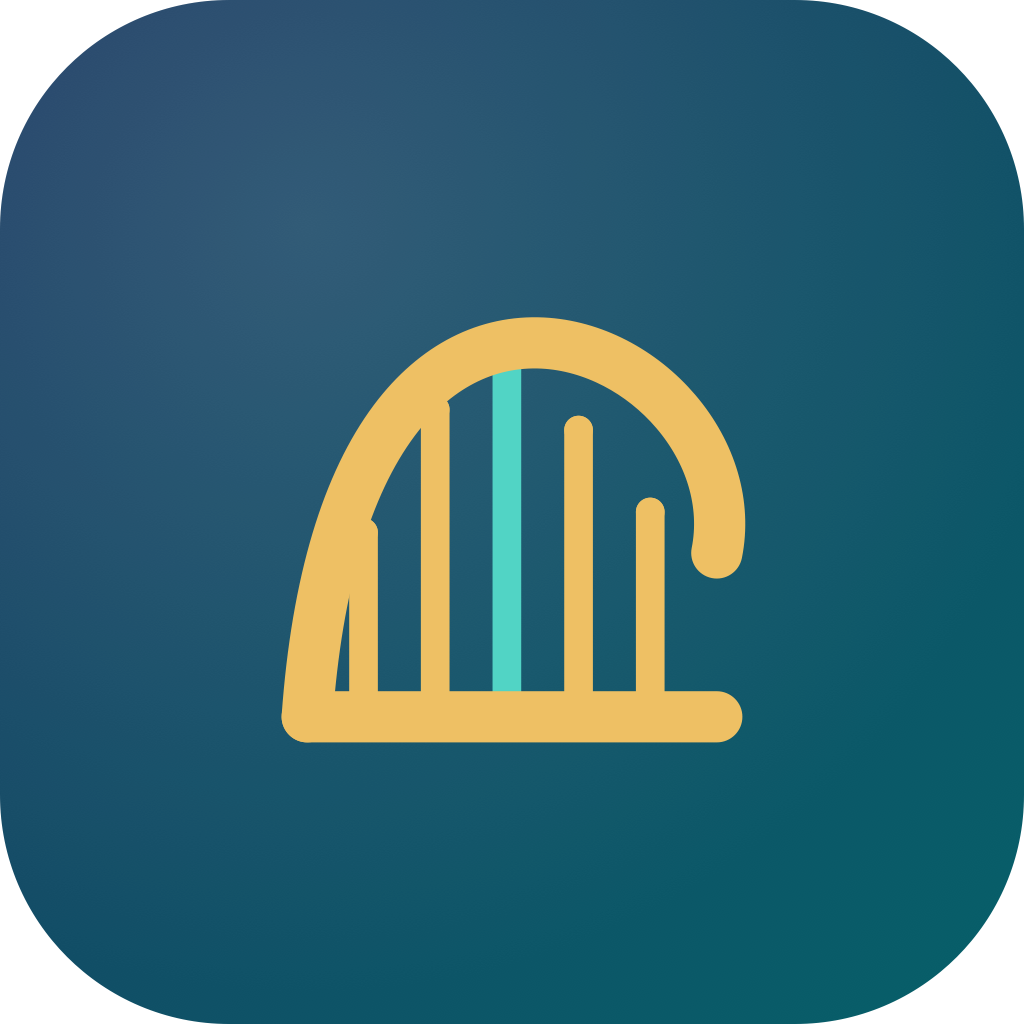
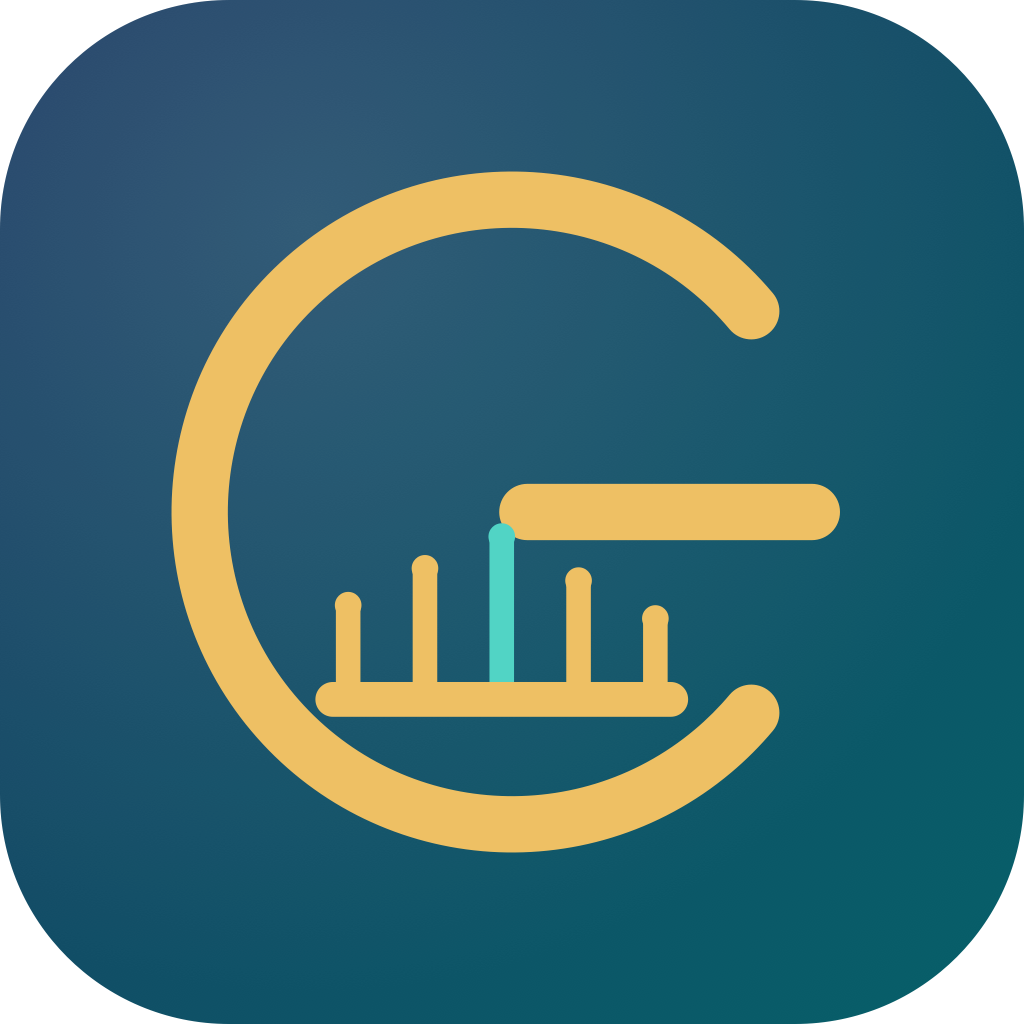
brand: redraw the harp mark as a "G" for Gosan
The frame is now an open gold ring + crossbar (a clear G), with the harp strings
+ soundboard nested in the lower bowl and the turquoise accent string reaching
toward the crossbar — reads as both a G and a harp/equalizer.

- tools/GenerateGosanIcon.swift: G-bowl arc + crossbar + lowered strings
- regenerated AppIcon set; branding SVGs (icon + lockup) + PNG previews updated

Changed region(s): [[0.1562, 0.1562, 0.8438, 0.8438]]

diff --git a/tools/GenerateGosanIcon.swift b/tools/GenerateGosanIcon.swift
@@ -39,40 +39,49 @@ func drawIcon(_ ctx: CGContext, _ s: CGFloat) {
                                options: [])
     }
 
-    // The harp / equalizer mark
-    let baseY = s * 0.30
-    let xs: [CGFloat] = [0.355, 0.425, 0.495, 0.565, 0.635]
-    let hs: [CGFloat] = [0.18, 0.30, 0.36, 0.28, 0.20]
-    let accentIndex = 2
-
+    // The mark: a harp whose frame reads as a "G" for Gosan.
     ctx.setLineCap(.round)
+    func deg(_ d: CGFloat) -> CGFloat { d * .pi / 180 }
+    let c = CGPoint(x: s * 0.50, y: s * 0.50)
+    let R = s * 0.305
+
+    // G bowl — an open gold ring (the harp's curved frame), gap on the right.
+    ctx.setStrokeColor(gold)
+    ctx.setLineWidth(s * 0.055)
+    ctx.beginPath()
+    ctx.addArc(center: c, radius: R, startAngle: deg(40), endAngle: deg(320), clockwise: false)
+    ctx.strokePath()
+
+    // G crossbar — the defining horizontal stroke, entering from the right.
+    ctx.beginPath()
+    ctx.move(to: CGPoint(x: c.x + s * 0.015, y: c.y))
+    ctx.addLine(to: CGPoint(x: c.x + R * 0.96, y: c.y))
+    ctx.strokePath()
+
+    // Harp strings in the lower bowl (equalizer bars), one turquoise accent.
+    let baseY = c.y - R * 0.6
+    let xs: [CGFloat] = [-0.16, -0.085, -0.01, 0.065, 0.14]
+    let hs: [CGFloat] = [0.092, 0.128, 0.159, 0.116, 0.079]
+    let accentIndex = 2
     for i in xs.indices {
-        let x = s * xs[i]
+        let x = c.x + s * xs[i]
         let top = baseY + s * hs[i]
-        let color = i == accentIndex ? accent : gold
-        ctx.setStrokeColor(color)
-        ctx.setLineWidth(s * 0.028)
+        let col = i == accentIndex ? accent : gold
+        ctx.setStrokeColor(col)
+        ctx.setLineWidth(s * 0.024)
         ctx.move(to: CGPoint(x: x, y: baseY))
         ctx.addLine(to: CGPoint(x: x, y: top))
         ctx.strokePath()
-        ctx.setFillColor(color)
-        let r = s * 0.014
+        ctx.setFillColor(col)
+        let r = s * 0.013
         ctx.fillEllipse(in: CGRect(x: x - r, y: top - r, width: r * 2, height: r * 2))
     }
 
-    // Harp neck (curved frame sweeping over the strings)
+    // Soundboard under the strings.
     ctx.setStrokeColor(gold)
-    ctx.setLineWidth(s * 0.05)
-    let neck = CGMutablePath()
-    neck.move(to: CGPoint(x: s * 0.30, y: baseY))
-    neck.addCurve(to: CGPoint(x: s * 0.70, y: baseY + s * 0.16),
-                  control1: CGPoint(x: s * 0.34, y: s * 0.86),
-                  control2: CGPoint(x: s * 0.74, y: s * 0.66))
-    ctx.addPath(neck); ctx.strokePath()
-
-    // Soundboard foot
-    ctx.move(to: CGPoint(x: s * 0.30, y: baseY))
-    ctx.addLine(to: CGPoint(x: s * 0.70, y: baseY))
+    ctx.setLineWidth(s * 0.034)
+    ctx.move(to: CGPoint(x: c.x - s * 0.175, y: baseY))
+    ctx.addLine(to: CGPoint(x: c.x + s * 0.155, y: baseY))
     ctx.strokePath()
 
     ctx.restoreGState()
